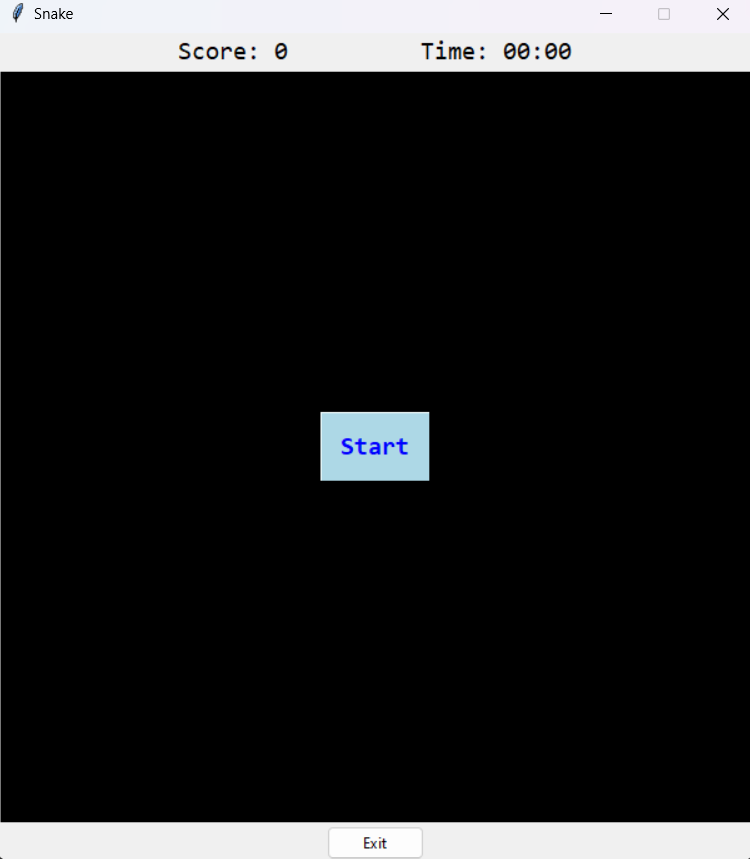
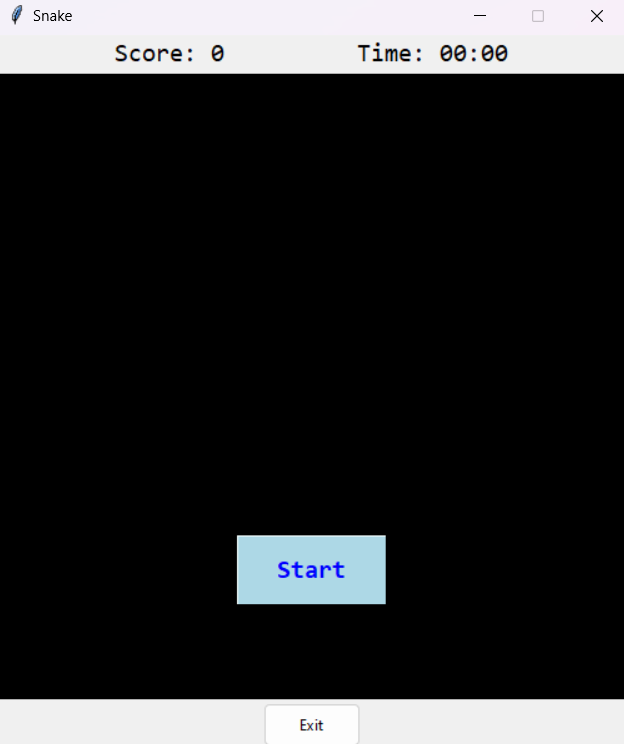
gave retro look to the congrat/user input for best score. few adjustment over the end game display scenario

diff --git a/main.py b/main.py
@@ -24,17 +24,17 @@ class Game():
 
         self.game_version = None # initialize and track the game version
 
-        # --- set up the all screen ---
+        # --- set up the whole screen ---
         self.window = tk.Tk()
         self.window.title('Snake')
         self.window.resizable(False, False)
         
-        # Use grid for better control of placement
+        # Use grid for better control of placement  of the widgets 
         self.top_frame = ttk.Frame(self.window)
         self.top_frame.pack(fill='x') 
-        self.top_frame.grid_columnconfigure(0, weight=1)
-        self.top_frame.grid_columnconfigure(1, weight=0)
-        self.top_frame.grid_columnconfigure(2, weight=1)
+        self.top_frame.grid_columnconfigure(0, weight=1) # placement for score
+        self.top_frame.grid_columnconfigure(1, weight=0) # placement for Pause button
+        self.top_frame.grid_columnconfigure(2, weight=1) # placement for timer
 
         # --- Initialize score label ---
         self.score_label = tk.Label(self.top_frame, text=f"Score: 0", font=('consolas', 15))
@@ -55,6 +55,10 @@ class Game():
         # --- screen game set up ---
         self.screen_game = Canvas(self.window, bg=self.BACKGROUND_COLOR, width=self.GAME_WIDTH, height=self.GAME_HEIGHT)
         self.screen_game.pack()
+
+        # --- create a start button for the game to start ---
+        self.start_button = self.create_button("Start", self.start_game)
+        self.start_button.place(relx=0.5, rely=0.75, anchor=CENTER, width= 120)
 
         # --- creating a restart button when game over // activated later in the app ---
         self.restart_button = self.create_button("Restart", self.restart_game)
@@ -80,11 +84,6 @@ class Game():
         exit_button.pack(side=tk.BOTTOM, pady=1, ipadx=1, ipady=5, expand=True, anchor="s")
 
         self.center_window()
-        self.bind_keys()
-
-        # --- create a start button for the game to start ---
-        self.start_button = self.create_button("Start", self.start_game)
-        self.start_button.place(relx=0.5, rely=0.5, anchor=CENTER)
 
 
     def create_button(self, text, command):
@@ -134,12 +133,14 @@ class Game():
         ''' Allow to pause the game, in stopping to call next_turn() function.'''
         if not self.is_game_paused and self.is_game_over == False:
             print("Game paused.")
+            self.unbind_keys()
             self.is_game_paused = True
             self.pause_button.config(text="Resume")
             self.pause_time = time.time()
         else:
             print("Game resumed.")
             self.is_game_paused = False
+            self.bind_keys()
             self.pause_button.config(text="Pause")
             self.start_time += time.time() - self.pause_time
             self.next_turn()
@@ -292,7 +293,9 @@ class Game():
 
 
     def check_collision(self):
-
+        '''check the head of snake (or first element) coordinates,
+        and compares it with other coordinates for collisions
+        such like it's own body and the wall if in game version with wall collision'''
         x, y = self.snake.coordinates[0]
 
         if self.game_version == 2:
@@ -316,25 +319,24 @@ class Game():
 
 
     def game_over(self):
+        '''display the game over message and call for score update.'''
         self.is_game_over = True
         print("\n", "-"*10, "Game over!", "-"*10)
         print(f"** score: {self.score} -- in {self.formatted_time}s **")
 
-
-        self.screen_game.delete("all") # remove the items(snake and food) on canvas
         self.pause_button.grid_remove() # remove the pause button.
-
         self.unbind_keys() # remove the key bindings to prevent error on console
 
         # display a 'Game over' message on the screen.        
-        self.screen_game.create_text(self.screen_game.winfo_width()/2, self.screen_game.winfo_height()/4,
-                            font=("consolas", 70),
+        self.screen_game.create_text(self.screen_game.winfo_width()/2, self.screen_game.winfo_height()/3,
+                            font=("consolas", 75),
                             text="Game Over",
                             fill="red",
                             tag="gameover",
                             )
         # --- call the function to check the score against and update is necessary
-        self.update_best_scores()
+        self.window.after(2500, self.update_best_scores)
+
 
 
     def load_best_scores(self, file_path="best_scores.json"):
@@ -360,6 +362,17 @@ class Game():
         '''check if the score is in the top 10.
         if so adds it to the list and remove the last one
         '''
+        # remove object from the screen
+        self.screen_game.delete("all")
+
+        # trying to display a smaller Game over message when the user enter their name or see the top scores
+        self.screen_game.create_text(self.screen_game.winfo_width()/2, self.screen_game.winfo_height()/5,
+                    font=("consolas", 25),
+                    text="Game Over",
+                    fill="darkred",
+                    tag="gameover",)
+        
+
         self.best_scores = self.load_best_scores(file_path)
 
         is_top_scores = False
@@ -368,33 +381,39 @@ class Game():
             # list scores shorter than 3 so automatically entered in the Top3
             is_top_scores = True
         else:
-            # check if new score os is higher than the lowest top score.
+            # check if new score is higher than the lowest top score adds to the list if it is.
             is_top_scores = self.score > self.best_scores[-1]['score']
 
-        # trying to implement pop up input for the user to enter their names.
         if is_top_scores:
             # Create a pop-up input dialog
-            username_window = tk.Toplevel(self.window)
-            username_window.title("Top Score!")
-            username_window.geometry("300x150")
-            username_window.resizable(False, False)
+            username_popup = tk.Toplevel(self.window, background="green")
+            username_popup.title("Top Score!")
+            username_popup.geometry("300x150")
+            username_popup.resizable(False, False)
+            username_popup.overrideredirect(True) # hides the topbar and submit buttons
 
             # # Center the pop-up
-            username_window.update_idletasks()
-            width = username_window.winfo_width()
-            height = username_window.winfo_height()
-            x = (username_window.winfo_screenwidth() // 2) - (width // 2)
-            y = (username_window.winfo_screenheight() // 2) - (height // 2)
-            username_window.geometry(f'{width}x{height}+{x}+{y}')
+            username_popup.update_idletasks()
+            width = username_popup.winfo_width()
+            height = username_popup.winfo_height()
+            x = (username_popup.winfo_screenwidth() // 2) - (width // 2)
+            y = (username_popup.winfo_screenheight() // 2) - (height // 2)
+            username_popup.geometry(f'{width}x{height}+{x}+{y}')
 
             # # Add labels and entry
-            label = tk.Label(username_window, 
-                             text="Congratulations!\nYou've made it to the Top 3!\nEnter your name:", 
-                             font=('consolas', 10))
-            label.pack(pady=5)
+            label = tk.Label(username_popup, 
+                             text="Congratulations!\nYou've made it to the Top 3!\n\nEnter your name and press <Enter>", 
+                             font=('consolas', 13),
+                             background = "green"
+                             )
+            label.pack(pady=10)
     
-            name_entry = tk.Entry(username_window, font=('consolas', 12))
+            name_entry = tk.Entry(username_popup, font=('consolas', 12))
             name_entry.pack(pady=10)
+            name_entry.focus() # user can type their names in the text field.
+
+            # allow user to pres the key <Return> to call submit_name() 
+            name_entry.bind('<Return>', lambda event: submit_name())
 
             def submit_name():
                 '''return the username from the input button on canva'''
@@ -403,7 +422,7 @@ class Game():
                 if not user:
                     user = "Anonymous"
 
-                now = datetime.datetime.now().strftime("%Y-%m-%d %H:%M")  # Nicely formatted date
+                now = datetime.datetime.now().strftime("%Y-%m-%d %H:%M")  # formatted date to display as: YYYY-MM-DD hh:mm
 
                 # add the new score to the list
                 self.best_scores.append({"user":user,
@@ -414,9 +433,10 @@ class Game():
                 # sort the score list and keep the top 10
                 self.best_scores = sorted(self.best_scores, key=lambda x: x["score"], reverse=True)[:10]
 
-                username_window.destroy()
-
-                 # save the updated score list in the file
+                name_entry.unbind('<Return>') # cancel the return button value after the pop is already closed
+                username_popup.destroy() # close the pop up message after the user has entered their username
+                
+                # save the updated score list in the file
                 print("Try updating the list.")
                 with open(file_path, "w") as file:
                     print("updating...")
@@ -425,12 +445,8 @@ class Game():
 
                 self.show_top_score()
 
-            #  call to submit name to be updated in the list
-            submit_button = tk.Button(username_window, 
-                                      text="Submit", 
-                                      command=submit_name, 
-                                      font=('consolas', 12))
-            submit_button.pack(pady=10)
+            # # allow user to type <Return> 
+            # name_entry.bind('<Return>', lambda event: on_submit_name())
 
         else:
             self.show_top_score()
@@ -440,26 +456,26 @@ class Game():
         '''Display the top3 scores.'''
 
         # ---set the the restart button after a little delay---------------
-        self.window.after(500, lambda: self.restart_button.place(relx=0.5, rely=0.75, anchor=CENTER))
+        self.window.after(1500, lambda: self.restart_button.place(relx=0.5, rely=0.75, anchor=CENTER))
 
         top_scores = self.best_scores[:3]
         print("\n --- Top 3 scores --- ")
 
-
         # creating a display message 'Top 3 scores' on the canva.
         self.screen_game.create_text(
-            self.screen_game.winfo_width()/2, self.screen_game.winfo_height()/2.5,
+            self.screen_game.winfo_width()/2, self.screen_game.winfo_height()/3,
             font=("consolas", 25),
             text="\n --- Top 3 scores --- ",
             fill="darkgreen",
             tag="topscores"
         )
+
         # show the list of the top 3 scores on the screen
         for i, item in enumerate(top_scores, start=1):
             best_scores = f"{i}. {item['user'][:4]}: Score: {item['score']}  --  time: {item['time']}s"
             print(best_scores)
             self.screen_game.create_text(
-            self.screen_game.winfo_width()/2, self.screen_game.winfo_height()/2.1 + (i*30),
+            self.screen_game.winfo_width()/2, self.screen_game.winfo_height()/2.5 + (i*30),
             font=("consolas", 15),
             text=best_scores,
             fill="white",
@@ -469,7 +485,7 @@ class Game():
 
 
 class Snake:
-    def __init__(self, game):
+    def __init__(self, game: Game):
         self.game = game
         self.body_size = game.BODY_SIZE
         self.coordinates = []
@@ -531,7 +547,7 @@ class Snake:
 
 
 class Food:
-    def __init__(self, game):
+    def __init__(self, game: Game):
         self.game = game
 
         # food generate at a random place in an empty space

diff --git a/README.md b/README.md
@@ -1,6 +1,6 @@
 # classic Snake game
 
-### Building the classic snake game with Tkinter module).
+## Building the classic snake game with Tkinter module.
 
 - The game is as usual the snake grows when eating an apple. and is done so  with checking and udating coordinates of the block representations for the objects Snake and Food.
 
@@ -9,15 +9,19 @@
 - Timer and Score widgets. Reset to 0 on a new party.
 - Restart button feature for continous running of the program without having to quit and re run.
 - Pause/ Resume feature.
-- Best score saved (new Feature added.) - show the top 3 score at the end, in the console at the moment.
+- Best score (new Feature added.) - display the top 3 score at the end of the game. 
+    ScoresAre saved through any sessions not only for the current session
 
+----------------------------------------------------------------
+----------------------------------------------------------------
 
 self.BASE_SPEED and self.MAX_SPEED can be edited at the top of the Game class 
--   BASE_speed to change the speed of the game at the beginning.
--   MAX_SPEED Set how fast the snake will move at it's maximum speed.
-- 
 
+- BASE_speed to change the speed of the game at the beginning.
+- MAX_SPEED Set how fast the snake will move at it's maximum speed.
+- self.current_speed (appointed near end of next_turn(), is the logic that control the gradual speed varation)
 
+## Game logic:
 
 'Start of program'
 
@@ -27,15 +31,15 @@ self.BASE_SPEED and self.MAX_SPEED can be edited at the top of the Game class
 
 <img src="./screenshots/2.png" alt="some sample photos" width=350>
 
-'Pause/Resume button active'
+'in gameplay Pause/Resume button active'
 
 <img src="./screenshots/3.png" alt="some sample photos" width=350>
 
-'user enter their names.'
+'Game over / user enter their names if in the top 3.'
 
 <img src="./screenshots/4.png" alt="some sample photos" width=350>
 
-'Game over'
+'End of game screen, option to restart'
 
 <img src="./screenshots/5.png" alt="some sample photos" width=350>
 
